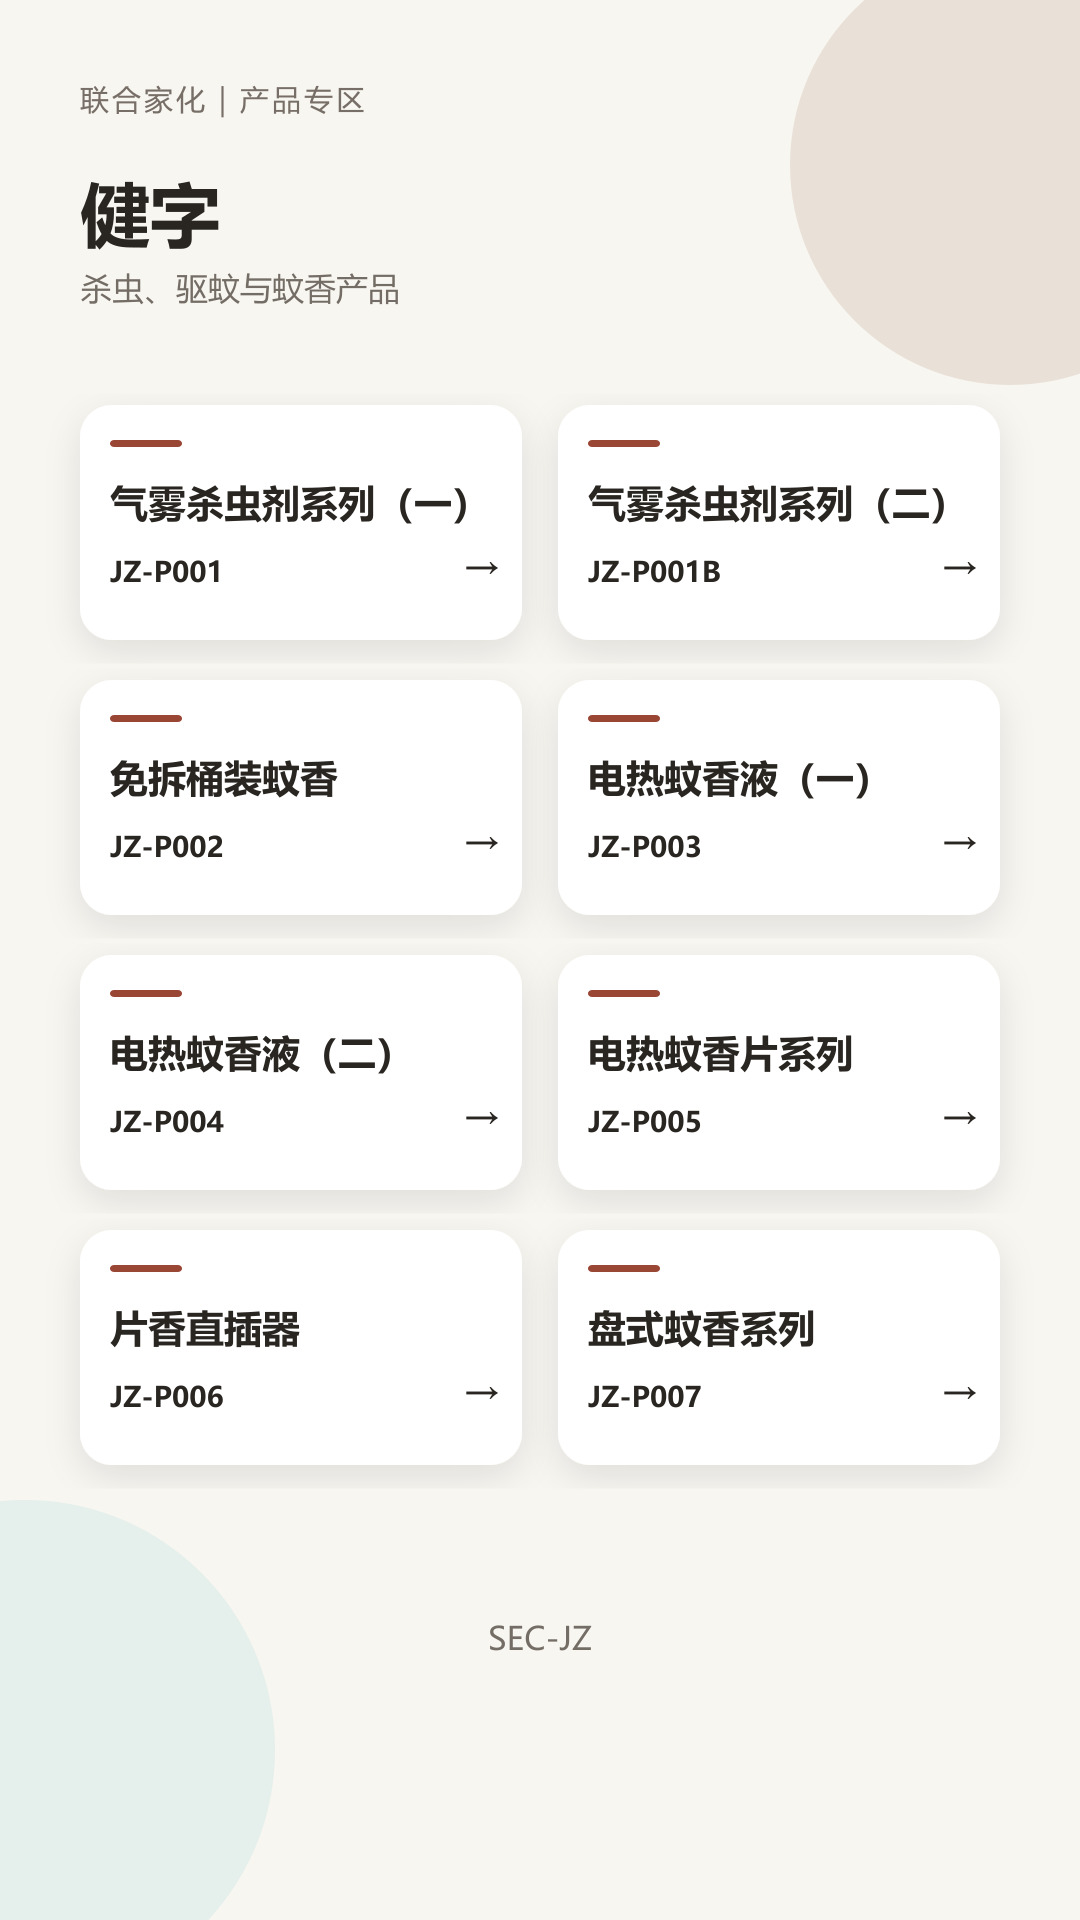
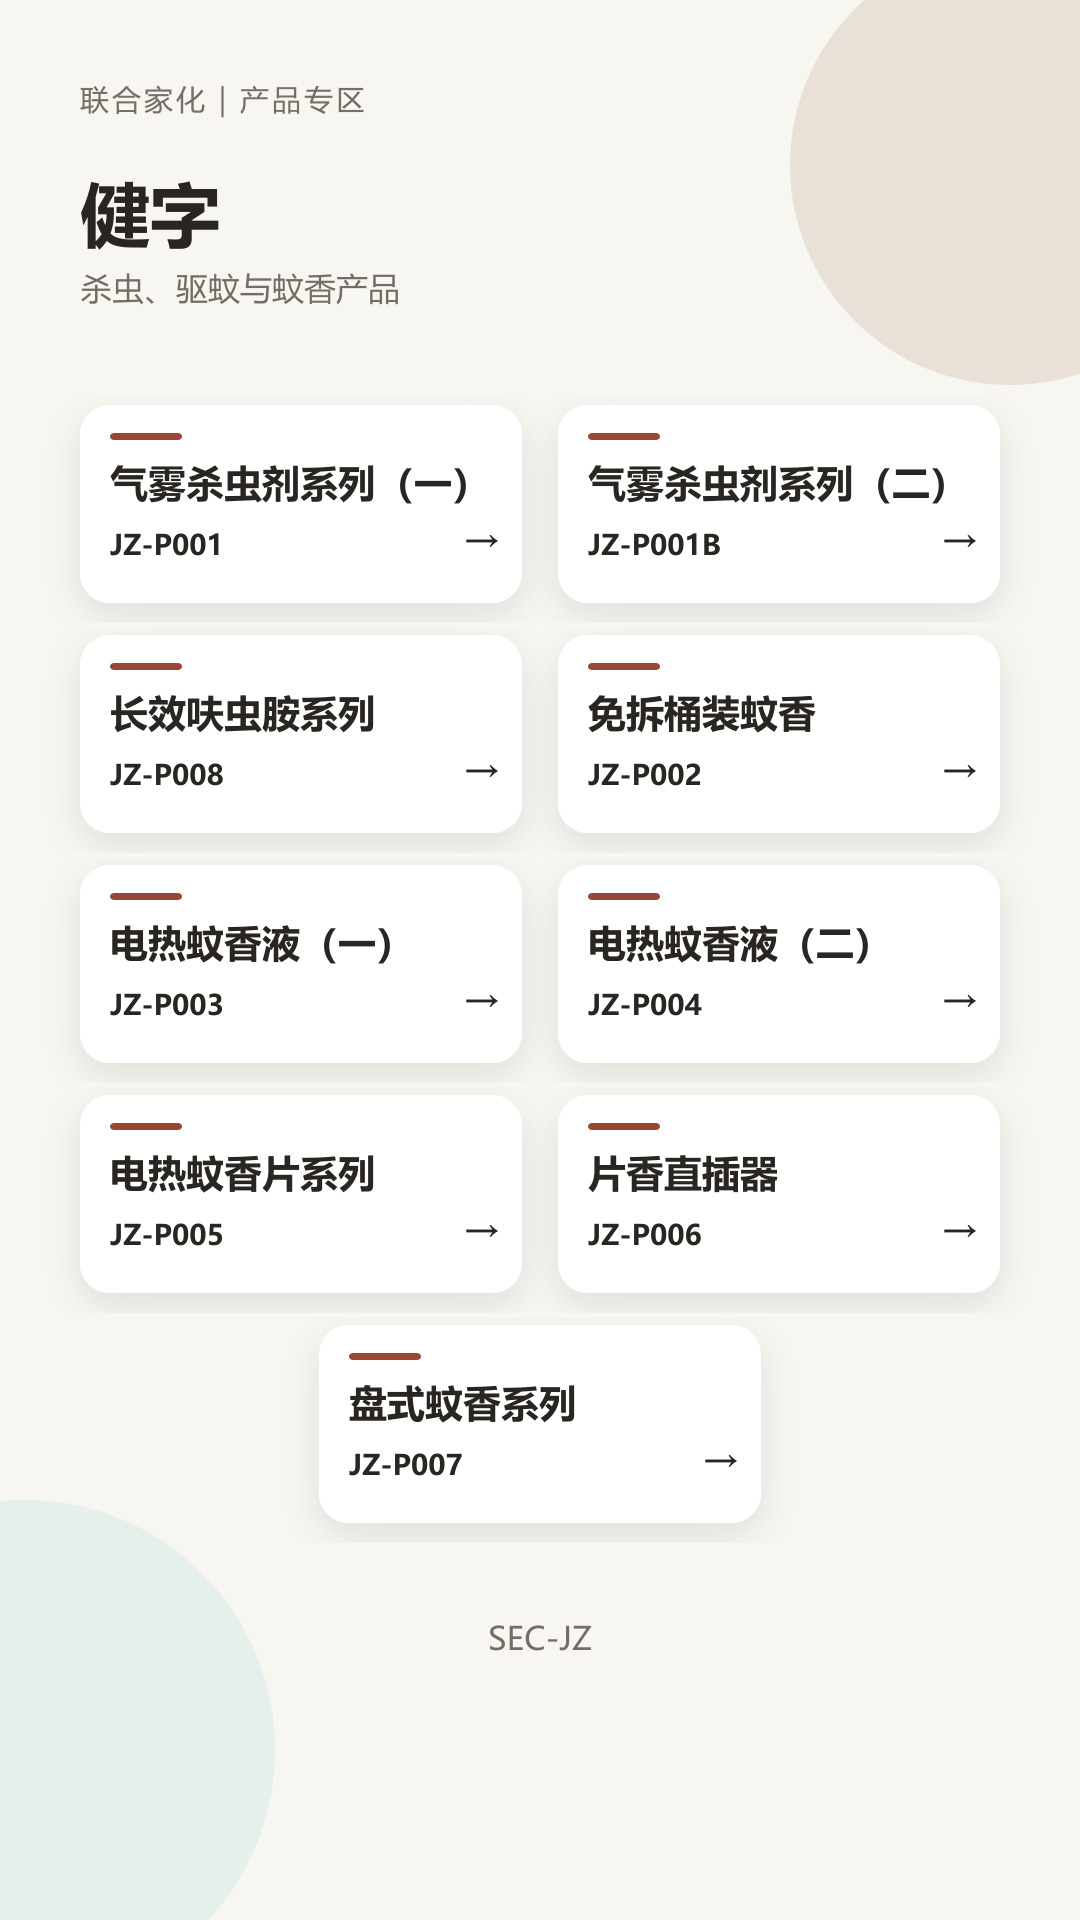
新增健字呋虫胺系列并调整为31页

Changed region(s): [[0.0917, 0.2188, 0.9167, 0.7812]]

diff --git a/index.html b/index.html
@@ -39,6 +39,7 @@ const pages = [
   {id:"SEC-JZ",title:"健字产品专区",section:"健字",src:"pages/SEC-JZ.jpg"},
   {id:"JZ-P001",title:"健字气雾剂系列",section:"健字",src:"pages/JZ-P001.jpg"},
   {id:"JZ-P001B",title:"健字气雾剂系列（二）",section:"健字",src:"pages/JZ-P001B.jpg"},
+  {id:"JZ-P008",title:"健字呋虫胺系列",section:"健字",src:"pages/JZ-P008.jpg"},
   {id:"JZ-P002",title:"免拆桶装蚊香",section:"健字",src:"pages/JZ-P002.jpg"},
   {id:"JZ-P003",title:"电热蚊香液系列（一）",section:"健字",src:"pages/JZ-P003.jpg"},
   {id:"JZ-P004",title:"电热蚊香液系列（二）",section:"健字",src:"pages/JZ-P004.jpg"},
@@ -80,26 +81,26 @@ const links = {
     [7.4,52.1,85.2,12.3,'COOP-001','进入招商合作'],[7.4,66.9,85.2,12.3,'CONTACT','进入联系方式']],
   'ENT-MARKET': [[7.4,77.0,85.2,8.5,'SEC-JZ','查看品牌与产品']],
   'ENT-INTRO': [[10.2,36.7,38,14.8,'@asset:营业执照.jpg','查看营业执照大图'],[51.8,36.7,38,14.8,'@asset:农药生产许可证.jpg','查看农药生产许可证大图'],[10.2,51.9,38,14.8,'@asset:农药登记证_代表证.jpg','查看农药登记证大图'],[51.8,51.9,38,14.8,'@asset:河北省科技型中小企业.jpg','查看科技型中小企业证书大图']],
-  'SEC-JZ': ['JZ-P001','JZ-P001B','JZ-P002','JZ-P003','JZ-P004','JZ-P005','JZ-P006','JZ-P007'],
+  'SEC-JZ': ['JZ-P001','JZ-P001B','JZ-P008','JZ-P002','JZ-P003','JZ-P004','JZ-P005','JZ-P006','JZ-P007'],
   'SEC-YJ': ['YJ-P001','YJ-P002','YJ-P003','YJ-P004'],
   'SEC-JGB': ['JGB-P001','JGB-P002'],
   'SEC-HC': ['HC-P001','HC-P002','HC-P003'],
   'CONTACT': [[7.4,43.5,85.2,12,'@tel','拨打0312-2161615'],[7.4,87.5,85.2,6.5,'DIR-001','返回全书主目录']]
 };
 const productImages={
- 'JZ-P001':['015','018','025','022'],'JZ-P001B':['016','017','026'],'JZ-P002':['063','064'],
+ 'JZ-P001':['015','018','025','022'],'JZ-P001B':['016','017','026'],'JZ-P008':['A80','A77'],'JZ-P002':['063','064'],
  'JZ-P003':['089','006','007','003'],'JZ-P004':['058','053'],'JZ-P005':['008','004','005','051'],'JZ-P006':['090'],'JZ-P007':['043','083','088','081'],
  'YJ-P001':['049','050','059','060'],'YJ-P002':['045'],'YJ-P003':['013','018','020','023'],'YJ-P004':['021'],
  'JGB-P001':['091','024','027'],'JGB-P002':['071','070','068','069'],'HC-P001':['035','067','065'],'HC-P002':['010'],'HC-P003':['030','028','029','031']};
 const productLayout={4:[[7.4,21.3,40.9,28.6],[51.7,21.3,40.9,28.6],[7.4,51.9,40.9,28.6],[51.7,51.9,40.9,28.6]],3:[[7.4,21.3,40.9,28.6],[51.7,21.3,40.9,28.6],[29.5,51.9,40.9,28.6]],2:[[7.4,21.5,85.2,26.8],[7.4,50.5,85.2,26.8]],1:[[7.4,21.5,85.2,55.0]]};
 function openLightbox(src,label){lightboxImage.src=src;lightboxImage.alt=label;lightboxCaption.textContent=label;lightbox.hidden=false;document.body.classList.add('modal-open')}
 function closeLightbox(){lightbox.hidden=true;lightboxImage.src='';document.body.classList.remove('modal-open')}
-function sectionLinks(ids) { return ids.map((id,n)=>[7.4+(n%2)*44.3,21.1+Math.floor(n/2)*14.3,40.9,12.2,id,'进入'+pages[byId[id]].title]); }
+function sectionLinks(ids) { return ids.map((id,n)=>[(ids.length%2===1&&n===ids.length-1)?29.5:7.4+(n%2)*44.3,21.1+Math.floor(n/2)*14.3,40.9,12.2,id,'进入'+pages[byId[id]].title]); }
 function renderHotspots(p) {
   hotspots.innerHTML=''; let items=links[p.id]||[]; if(items.length && typeof items[0]==='string') items=sectionLinks(items);
   if(p.id==='COVER') items=[];
   items.forEach(([x,y,w,h,target,label])=>{const b=document.createElement('button');b.className='hotspot';b.style.cssText=`left:${x}%;top:${y}%;width:${w}%;height:${h}%`;b.setAttribute('aria-label',label);if(p.id!=='SEC-JZ'&&label&&label.includes('进入')){const t=document.createElement('span');t.className='pulse-link';t.innerHTML='进入 <span class="pulse-arrow">→</span>';b.append(t)}b.onclick=()=>{if(target==='@tel'){location.href='tel:03122161615';return}if(target.startsWith('@asset:')){window.open('assets/'+encodeURIComponent(target.slice(7)),'_blank');return}show(byId[target])};hotspots.append(b);});
-  const ids=productImages[p.id];if(ids){const pos=productLayout[ids.length];ids.forEach((n,i)=>{const [x,y,w,h]=pos[i];const b=document.createElement('button');b.className='hotspot product-hotspot';b.style.cssText=`left:${x}%;top:${y}%;width:${w}%;height:${h}%`;b.setAttribute('aria-label','点击放大产品图片 IMG_'+n);b.onclick=e=>{e.stopPropagation();openLightbox('assets/products/IMG_'+n+'.jpg','真实产品图片 IMG_'+n)};hotspots.append(b)})}
+  const ids=productImages[p.id];if(ids){const pos=p.id==='JZ-P008'?[[7.4,31.8,40.9,33.9],[51.7,31.8,40.9,33.9]]:productLayout[ids.length];ids.forEach((n,i)=>{const [x,y,w,h]=pos[i];const b=document.createElement('button');b.className='hotspot product-hotspot';b.style.cssText=`left:${x}%;top:${y}%;width:${w}%;height:${h}%`;b.setAttribute('aria-label','点击放大产品图片 '+n);b.onclick=e=>{e.stopPropagation();openLightbox('assets/products/IMG_'+n+'.jpg','真实产品图片 '+n)};hotspots.append(b)})}
   if(p.id==='COVER'){const b=document.createElement('button');b.className='cover-pulse';b.textContent='进入全书主目录';b.onclick=()=>show(byId['DIR-001']);hotspots.append(b)}
   if(p.id==='ENT-MARKET'){const b=document.createElement('span');b.className='market-pulse';b.textContent='查看品牌与产品';hotspots.append(b)}
   if(p.id==='SEC-JZ'){const t=document.createElement('div');t.className='choose-product-tip';t.innerHTML='<span>☝</span><strong>点击方框选择产品</strong>';hotspots.append(t)}

diff --git a/sw.js b/sw.js
@@ -1,5 +1,1 @@
-const C='topic6-v1-prompts-round2';const CORE=['./','./index.html','./style.css','./manifest.webmanifest','./icon-192.png'];self.addEventListener('install',e=>e.waitUntil(caches.open(C).then(c=>c.addAll(CORE)).then(()=>self.skipWaiting())));self.addEventListener('activate',e=>e.waitUntil(caches.keys().then(keys=>Promise.all(keys.filter(k=>k!==C).map(k=>caches.delete(k)))).then(()=>self.clients.claim())));self.addEventListener('fetch',e=>e.respondWith(caches.match(e.request).then(r=>r||fetch(e.request).then(x=>{const y=x.clone();caches.open(C).then(c=>c.put(e.request,y));return x;}))));
-
-
-
-
+const C='topic6-v1-furame-p08-31';const CORE=['./','./index.html','./style.css','./manifest.webmanifest','./icon-192.png'];self.addEventListener('install',e=>e.waitUntil(caches.open(C).then(c=>c.addAll(CORE)).then(()=>self.skipWaiting())));self.addEventListener('activate',e=>e.waitUntil(caches.keys().then(keys=>Promise.all(keys.filter(k=>k!==C).map(k=>caches.delete(k)))).then(()=>self.clients.claim())));self.addEventListener('fetch',e=>e.respondWith(caches.match(e.request).then(r=>r||fetch(e.request).then(x=>{const y=x.clone();caches.open(C).then(c=>c.put(e.request,y));return x;}))));
